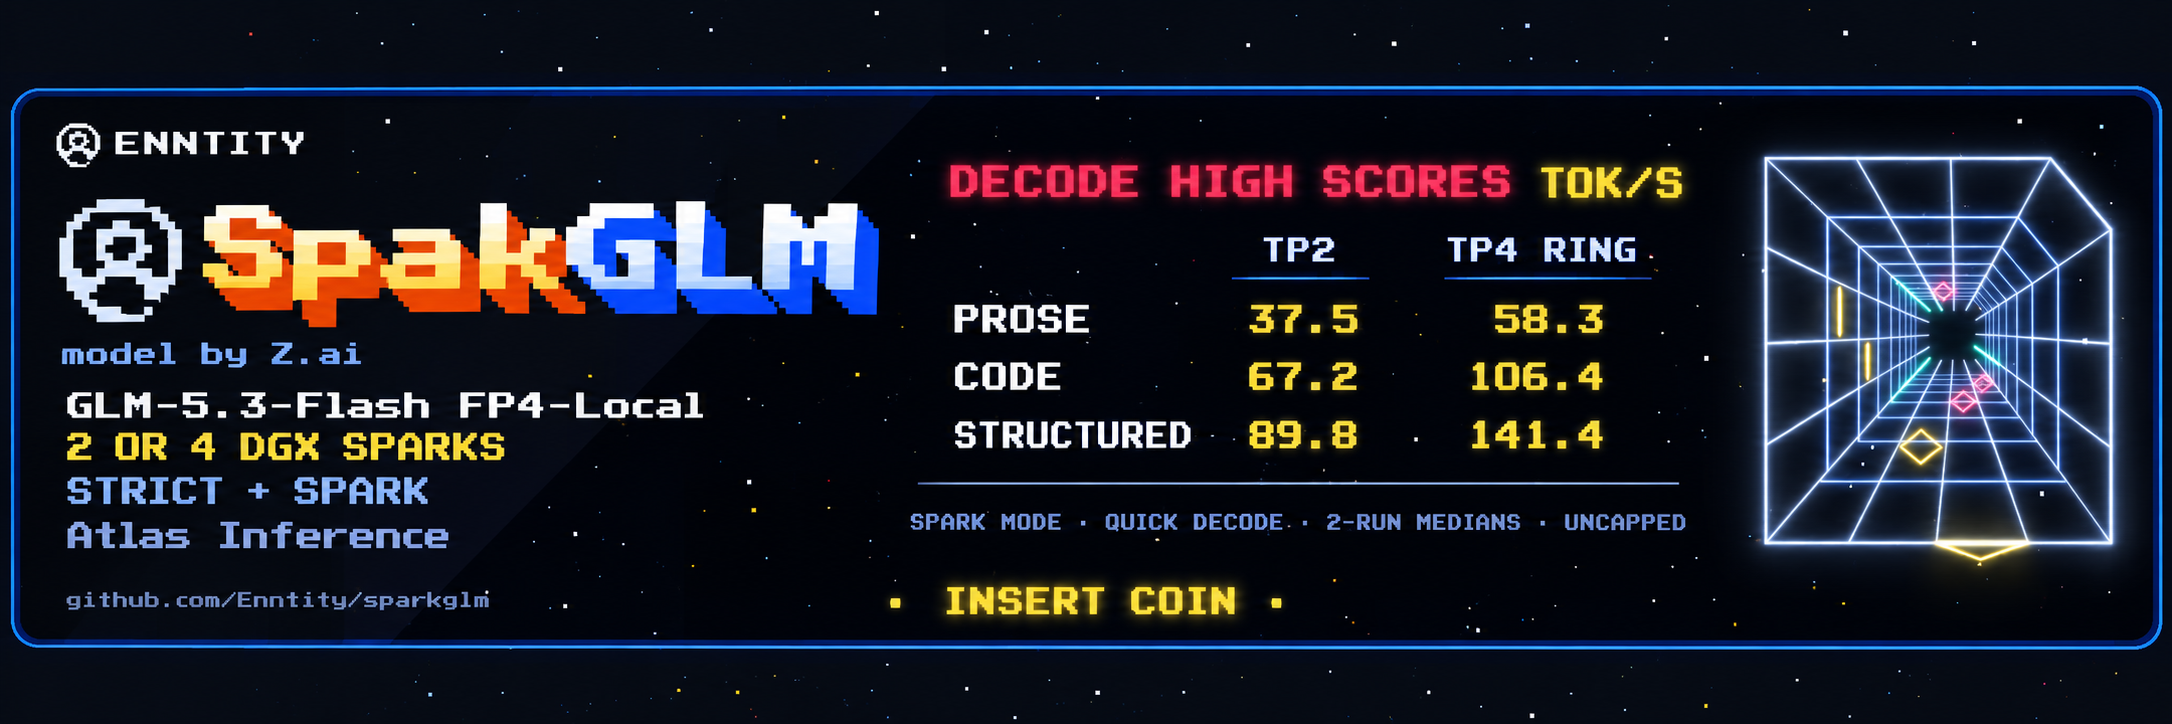
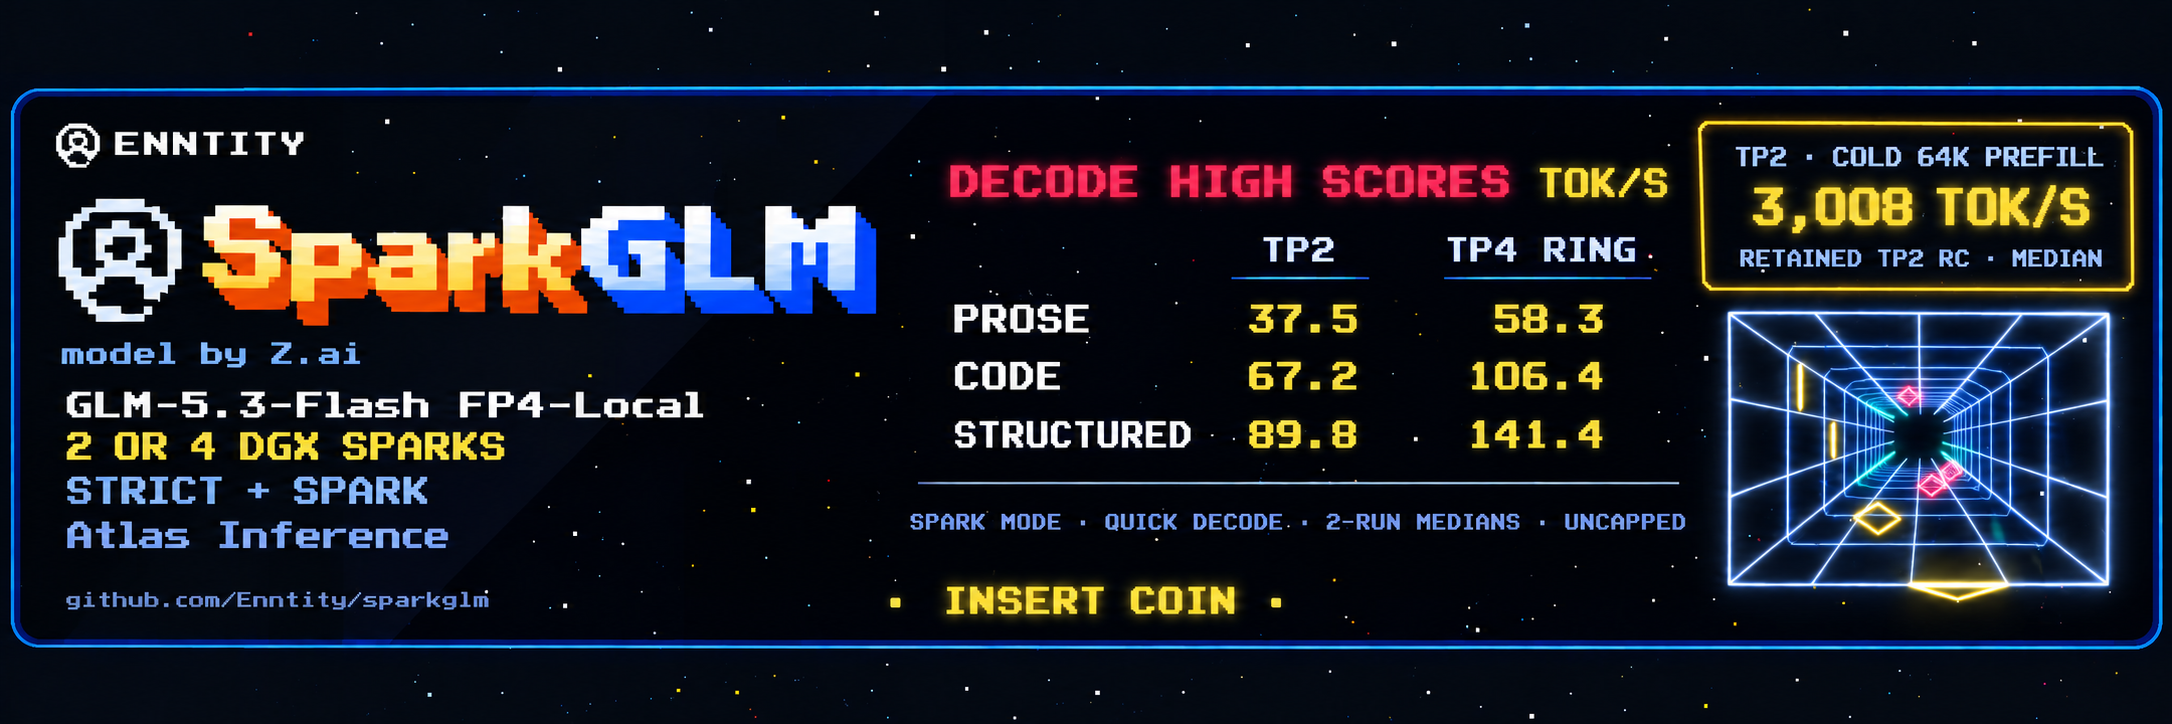
Correct arcade title and add measured TP2 prefill score

diff --git a/results/2026-10-21-unified-release/card-prompts.md b/results/2026-10-21-unified-release/card-prompts.md
@@ -1,7 +1,15 @@
 <!-- SPDX-License-Identifier: AGPL-3.0-only -->
 # SparkGLM release cards
 
-Generated with the built-in image generation tool. Text and all six scores visually checked against the two-run medians. Output files are copied into the product repository.
+Generated with the built-in image generation tool. The first draft omitted the r in the title. The final edits below correct it and add the retained TP2 prefill median. Final text and scores were checked visually. Output files are copied into the product repository.
+
+## Final README correction
+
+Edit this arcade banner. Fix the large title: it must read exactly "SparkGLM", all eight letters S p a r k G L M clearly separated and legible. The current title wrongly omits the r: insert a clearly formed lowercase pixel r between a and k. Use simpler unobscured pixel lettering if necessary. Preserve the brand colors (Spark orange, GLM blue), all score values and qualifiers. Add a conspicuous prefill high-score panel above or below the neon tunnel: heading "TP2 · COLD 64K PREFILL", big gold "3,008 TOK/S", smaller qualifier "RETAINED TP2 RC · MEDIAN". Recompose the tunnel smaller to make space. Keep the decode table exactly: TP2 / TP4 RING; PROSE 37.5 / 58.3; CODE 67.2 / 106.4; STRUCTURED 89.8 / 141.4. Keep "SPARK MODE · QUICK DECODE · 2-RUN MEDIANS · UNCAPPED". All text must fit. Preserve the original wide banner aesthetic and other branding. Do not alter numbers or omit the r in SparkGLM. Only use the exact provided text.
+
+## Final repository-card correction
+
+Edit this arcade GitHub repository card. Fix the title to exactly "SparkGLM" with all eight letters clearly readable: S p a r k G L M. The r must be visible between a and k. Use simple legible pixel lettering, orange Spark, blue GLM. Preserve all decode table numbers: TP2 and TP4 RING columns; PROSE 37.5 / 58.3; CODE 67.2 / 106.4; STRUCTURED 89.8 / 141.4. Add a bright prefill high-score box in the top right, making the wireframe tunnel smaller: heading "TP2 · COLD 64K PREFILL"; big gold "3,008 TOK/S"; qualifier "RETAINED TP2 RC · MEDIAN". Keep other branding and the black starfield / blue rounded border, and the two-run/uncapped qualifier. Add "QUICK DECODE" near the decode qualifier if space. Landscape 2:1, 1280x640 output preferred. Keep the correct spelling SparkGLM and precise scores. Reduce tiny background speckles if helpful to produce a compact file.
 
 ## README banner
 

diff --git a/README.md b/README.md
@@ -83,6 +83,12 @@ Each chain/ring repetition has identical output, reasoning and stream hashes.
 Ring improves TP4 medians by 2.07–2.48%; two repetitions do not establish
 statistical significance. [All repetitions, configurations and raw outputs](results/2026-10-21-unified-release/RESULT.md).
 
+The cards also show the retained TP2 Spark cold-64K prefill median of **3,008
+tok/s** (3,008.119 before rounding; repetitions 3,001.870 and 3,014.369).
+The same qualification measured 2,749 tok/s at 8K and 2,849 at 32K. This is
+prior TP2 qualification data, labeled as such on the cards, not a new TP4
+prefill measurement. [Prefill receipts](results/2026-10-20-tp2-qualification/RESULT.md#decode-and-serving-performance).
+
 Retained TP2 Kindling results use the adapted zero-thinking-budget harness,
 `8x128k`, uncapped GPU clocks, and 512/768-token output limits: 80 measured
 runs and 193 streams per mode including warmups. These are earlier qualified

diff --git a/results/2026-10-21-unified-release/RESULT.md b/results/2026-10-21-unified-release/RESULT.md
@@ -69,6 +69,15 @@ medians rounded to one decimal place, not selected maximum runs. Serving
 clock caps were restored after measurement; these numbers do not describe
 clock-capped live serving.
 
+## Prefill score on the cards
+
+The prefill panel is labeled **TP2 · cold 64K · retained TP2 RC · median**.
+It shows 3,008 tok/s, rounded from 3,008.119 (repetitions 3,001.870 and
+3,014.369). This is the earlier Spark qualification on image `f5c00e667bd2`,
+with uncapped GPU clocks and the same native prefill path. It is not a new
+measurement of the published image or a TP4 prefill claim. Exact values and
+all underlying requests remain in the retained TP2 benchmark summary/archive.
+
 ## Qualification retained and extended
 
 The [unified RC qualification](../2026-10-21-unified-rc/RESULT.md) and its
